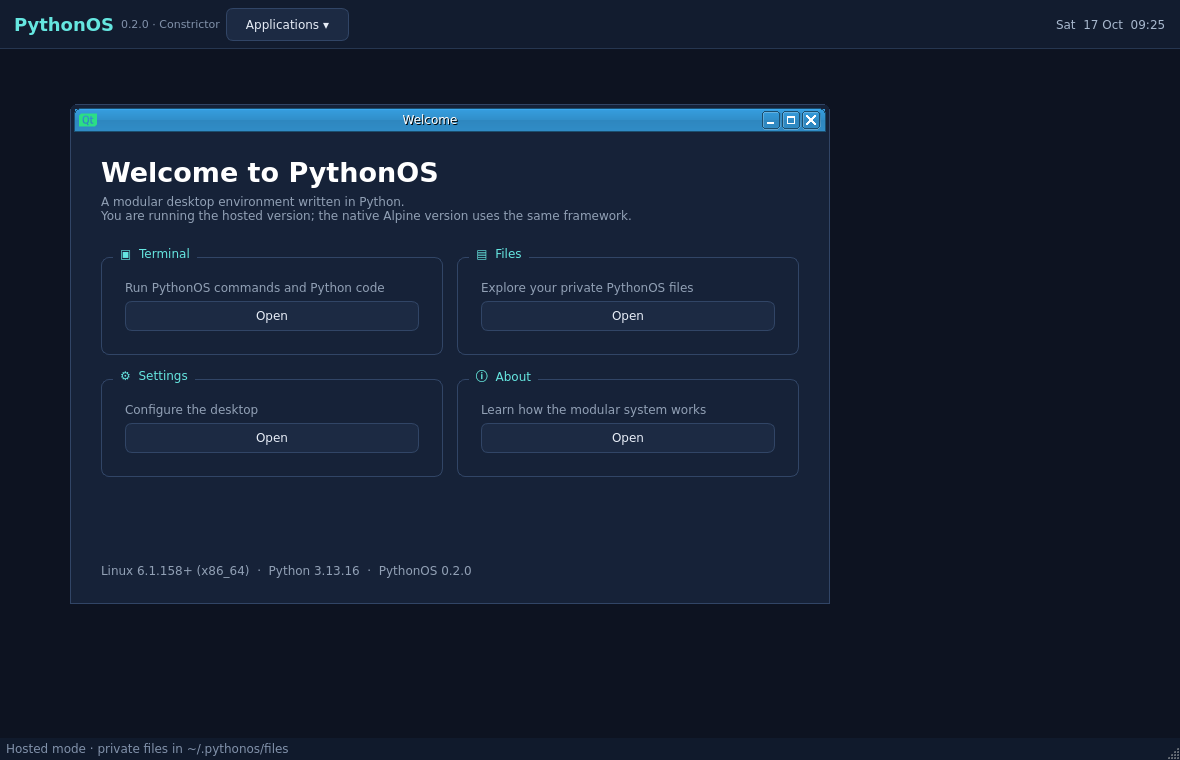
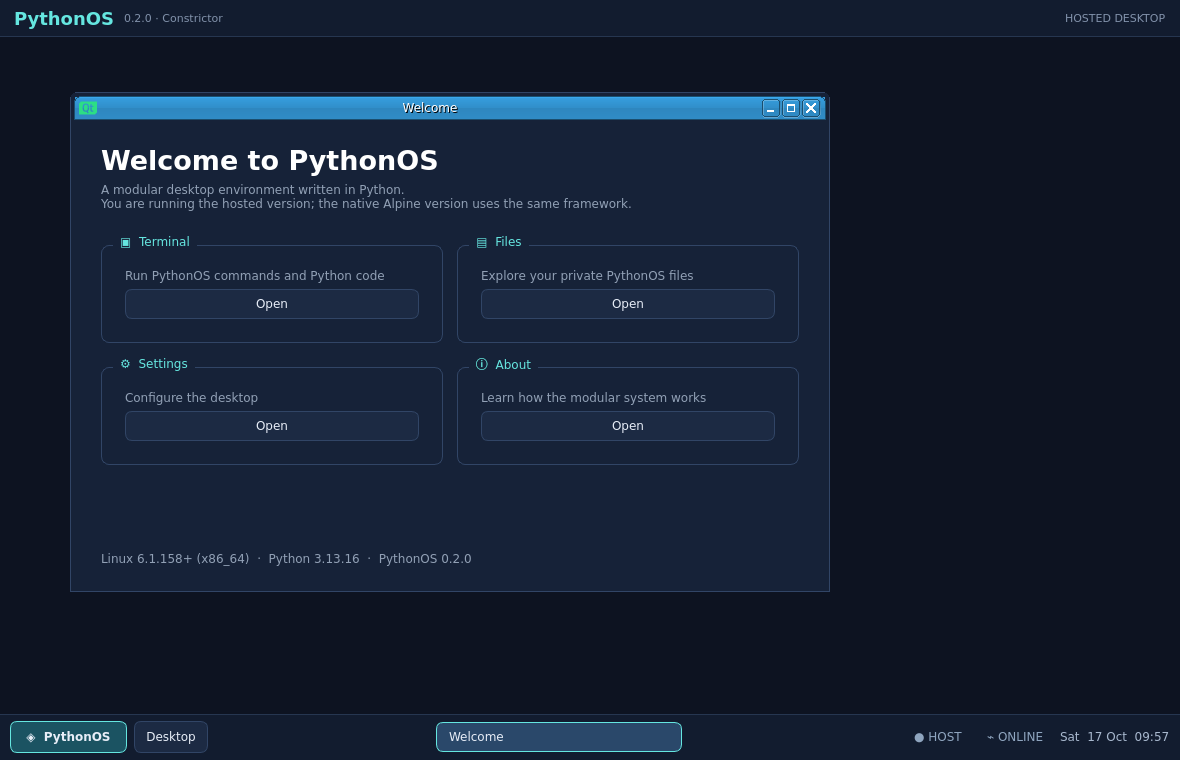
desktop: add a real taskbar and window switching

diff --git a/pythonos/desktop/main.py b/pythonos/desktop/main.py
@@ -6,7 +6,7 @@ import argparse
 import sys
 from pathlib import Path
 
-from PySide6.QtCore import QDateTime, QTimer, Qt
+from PySide6.QtCore import QDateTime, QPoint, QTimer, Qt
 from PySide6.QtGui import QAction, QColor, QFont, QPalette
 from PySide6.QtWidgets import (
     QApplication,
@@ -21,8 +21,9 @@ from PySide6.QtWidgets import (
     QMdiSubWindow,
     QMessageBox,
     QPushButton,
-    QStatusBar,
+    QMenu,
     QToolButton,
+    QHBoxLayout,
     QVBoxLayout,
     QWidget,
 )
@@ -35,6 +36,13 @@ from .terminal import TerminalWidget
 STYLE = """
 QMainWindow, QWidget#desktopRoot { background: #0d1321; color: #e7edf7; }
 QWidget#panel { background: #121c2f; border-bottom: 1px solid #263650; }
+QWidget#taskbar { background: #121c2f; border-top: 1px solid #263650; }
+QPushButton#startButton { background: #1b5362; border-color: #65e6e0; font-weight: 700; padding: 8px 15px; }
+QPushButton#startButton:hover { background: #257487; }
+QPushButton#desktopButton { padding: 8px 11px; }
+QPushButton#taskButton { padding: 7px 12px; min-width: 130px; max-width: 220px; text-align: left; }
+QPushButton#taskButton:checked { background: #2a486a; border-color: #65e6e0; }
+QLabel#tray { color: #8fa5bf; padding: 0 5px; }
 QLabel#brand { color: #65e6e0; font-size: 18px; font-weight: 700; }
 QLabel#version { color: #8191aa; font-size: 11px; }
 QPushButton, QToolButton { background: #1c2a43; border: 1px solid #314566; border-radius: 7px; color: #e7edf7; padding: 7px 13px; }
@@ -178,6 +186,13 @@ class AboutWidget(QWidget):
 
 
 class DesktopWindow(QMainWindow):
+    """The PythonOS desktop shell.
+
+    The taskbar is deliberately part of the Python UI rather than a host-OS
+    integration. It owns the launcher, window buttons, desktop toggle and
+    status tray, so the same shell can be reused by native mode later.
+    """
+
     def __init__(self, platform: HostPlatform | None = None):
         super().__init__()
         self.platform = platform or HostPlatform()
@@ -187,6 +202,8 @@ class DesktopWindow(QMainWindow):
         self.setObjectName("desktopRoot")
         self.setStyleSheet(STYLE)
         self.windows: dict[str, QMdiSubWindow] = {}
+        self.task_buttons: dict[str, QPushButton] = {}
+        self._desktop_hidden = False
         self._build_ui()
         self._clock = QTimer(self)
         self._clock.timeout.connect(self.update_clock)
@@ -199,54 +216,137 @@ class DesktopWindow(QMainWindow):
         layout = QVBoxLayout(root)
         layout.setContentsMargins(0, 0, 0, 0)
         layout.setSpacing(0)
+
+        # A slim top identity bar. The actual desktop taskbar is at the
+        # bottom, like a conventional desktop environment.
         panel = QWidget()
         panel.setObjectName("panel")
-        panel_layout = QGridLayout(panel)
+        panel_layout = QHBoxLayout(panel)
         panel_layout.setContentsMargins(14, 8, 14, 8)
+        panel_layout.setSpacing(9)
         brand = QLabel("PythonOS")
         brand.setObjectName("brand")
-        panel_layout.addWidget(brand, 0, 0)
+        panel_layout.addWidget(brand)
         version = QLabel(f"{__version__} · {__codename__}")
         version.setObjectName("version")
-        panel_layout.addWidget(version, 0, 1)
-        launcher = QToolButton()
-        launcher.setText("Applications ▾")
-        launcher.clicked.connect(self.show_launcher)
-        panel_layout.addWidget(launcher, 0, 2)
-        panel_layout.setColumnStretch(3, 1)
-        self.clock = QLabel()
-        self.clock.setObjectName("clock")
-        panel_layout.addWidget(self.clock, 0, 4)
+        panel_layout.addWidget(version)
+        panel_layout.addStretch()
+        mode = QLabel("HOSTED DESKTOP")
+        mode.setObjectName("version")
+        panel_layout.addWidget(mode)
         layout.addWidget(panel)
 
         self.mdi = QMdiArea()
         self.mdi.setViewMode(QMdiArea.ViewMode.SubWindowView)
         self.mdi.setBackground(QColor("#0d1321"))
-        layout.addWidget(self.mdi)
+        self.mdi.subWindowActivated.connect(self._active_window_changed)
+        layout.addWidget(self.mdi, 1)
+
+        # Bottom taskbar: launcher, desktop toggle, live app buttons, tray and clock.
+        taskbar = QWidget()
+        taskbar.setObjectName("taskbar")
+        taskbar_layout = QHBoxLayout(taskbar)
+        taskbar_layout.setContentsMargins(10, 7, 10, 7)
+        taskbar_layout.setSpacing(7)
+
+        self.start_button = QPushButton("◈  PythonOS")
+        self.start_button.setObjectName("startButton")
+        self.start_button.clicked.connect(self.show_launcher)
+        taskbar_layout.addWidget(self.start_button)
+
+        desktop_button = QPushButton("Desktop")
+        desktop_button.setObjectName("desktopButton")
+        desktop_button.setToolTip("Show or restore desktop windows")
+        desktop_button.clicked.connect(self.show_desktop)
+        taskbar_layout.addWidget(desktop_button)
+
+        self.window_button_host = QWidget()
+        self.window_buttons_layout = QHBoxLayout(self.window_button_host)
+        self.window_buttons_layout.setContentsMargins(4, 0, 0, 0)
+        self.window_buttons_layout.setSpacing(5)
+        taskbar_layout.addWidget(self.window_button_host, 1)
+
+        host_label = QLabel("● HOST")
+        host_label.setObjectName("tray")
+        online_label = QLabel("⌁ ONLINE")
+        online_label.setObjectName("tray")
+        taskbar_layout.addWidget(host_label)
+        taskbar_layout.addWidget(online_label)
+        self.clock = QLabel()
+        self.clock.setObjectName("clock")
+        taskbar_layout.addWidget(self.clock)
+        layout.addWidget(taskbar)
+
         self.setCentralWidget(root)
-        self.setStatusBar(QStatusBar())
-        self.statusBar().showMessage("Hosted mode · private files in ~/.pythonos/files")
         self.open_app("welcome")
 
     def update_clock(self):
         self.clock.setText(QDateTime.currentDateTime().toString("ddd  dd MMM  HH:mm"))
 
     def show_launcher(self):
-        menu = self.menuBar().addMenu("Applications")
-        menu.aboutToHide.connect(menu.deleteLater)
+        menu = QMenu(self)
+        menu.setStyleSheet(STYLE)
+        menu.addAction("Open Welcome", lambda: self.open_app("welcome"))
+        menu.addSeparator()
         for name, title in (("terminal", "Terminal"), ("files", "Files"),
                             ("settings", "Settings"), ("about", "About")):
-            action = QAction(title, menu)
-            action.triggered.connect(lambda checked=False, n=name: self.open_app(n))
-            menu.addAction(action)
-        menu.popup(self.mapToGlobal(self.rect().topLeft() + self.rect().topLeft()))
+            menu.addAction(title, lambda n=name: self.open_app(n))
+        menu.addSeparator()
+        menu.addAction("Toggle fullscreen", self.toggle_fullscreen)
+        menu.addAction("Exit PythonOS", self.close)
+        point = self.start_button.mapToGlobal(QPoint(0, -menu.sizeHint().height()))
+        menu.exec(point)
+
+    def show_desktop(self):
+        windows = list(self.windows.values())
+        if not windows:
+            self.open_app("welcome")
+            return
+        if self._desktop_hidden:
+            for window in windows:
+                window.showNormal()
+            self._desktop_hidden = False
+        else:
+            for window in windows:
+                window.showMinimized()
+            self._desktop_hidden = True
+
+    def _add_task_button(self, name: str, window: QMdiSubWindow):
+        button = QPushButton(window.windowTitle())
+        button.setObjectName("taskButton")
+        button.setCheckable(True)
+        button.setToolTip(f"Switch to {window.windowTitle()}")
+        button.clicked.connect(lambda checked=False, n=name: self.activate_app(n))
+        self.window_buttons_layout.addWidget(button)
+        self.task_buttons[name] = button
+
+    def _remove_task_button(self, name: str):
+        button = self.task_buttons.pop(name, None)
+        if button is not None:
+            self.window_buttons_layout.removeWidget(button)
+            button.deleteLater()
+
+    def _active_window_changed(self, window):
+        active = self.mdi.activeSubWindow()
+        for name, button in self.task_buttons.items():
+            button.setChecked(self.windows.get(name) is active)
+
+    def activate_app(self, name: str):
+        window = self.windows.get(name)
+        if window is None:
+            self.open_app(name)
+            return
+        if self.mdi.activeSubWindow() is window and not window.isMinimized():
+            window.showMinimized()
+            return
+        window.showNormal()
+        window.raise_()
+        self.mdi.setActiveSubWindow(window)
+        self._desktop_hidden = False
 
     def open_app(self, name: str):
         if name in self.windows:
-            window = self.windows[name]
-            window.show()
-            window.raise_()
-            self.mdi.setActiveSubWindow(window)
+            self.activate_app(name)
             return
         if name == "welcome":
             widget = WelcomeWidget(self.platform, self.open_app)
@@ -267,16 +367,23 @@ class DesktopWindow(QMainWindow):
             QMessageBox.warning(self, "Unknown application", name)
             return
         sub = self.mdi.addSubWindow(widget)
+        sub.setAttribute(Qt.WidgetAttribute.WA_DeleteOnClose, True)
         sub.setWindowTitle(title)
         sub.resize(600, 430)
-        sub.destroyed.connect(lambda _obj=None, n=name: self.windows.pop(n, None))
+        sub.destroyed.connect(lambda _obj=None, n=name: self._window_destroyed(n))
         self.windows[name] = sub
+        self._add_task_button(name, sub)
         sub.show()
         if name == "welcome":
             sub.resize(760, 500)
             sub.move(70, 55)
         else:
             sub.move(110 + len(self.windows) * 20, 70 + len(self.windows) * 15)
+        self.mdi.setActiveSubWindow(sub)
+
+    def _window_destroyed(self, name: str):
+        self.windows.pop(name, None)
+        self._remove_task_button(name)
 
     def toggle_fullscreen(self):
         if self.isFullScreen():

diff --git a/tests/test_desktop.py b/tests/test_desktop.py
@@ -12,17 +12,45 @@ import unittest
 
 
 class HostedDesktopTests(unittest.TestCase):
-    def test_entrypoint_creates_desktop(self):
+    def _gui_env(self):
+        env = dict(os.environ)
+        env["QT_QPA_PLATFORM"] = "offscreen"
+        env["PYTHONPATH"] = os.path.dirname(os.path.dirname(os.path.abspath(__file__)))
+        return env
+
+    def _require_qt(self):
         try:
             import PySide6  # noqa: F401
         except ImportError:
             self.skipTest("install requirements.txt for the hosted GUI")
-        env = dict(os.environ)
-        env["QT_QPA_PLATFORM"] = "offscreen"
-        env["PYTHONPATH"] = os.path.dirname(os.path.dirname(os.path.abspath(__file__)))
+
+    def test_entrypoint_creates_desktop(self):
+        self._require_qt()
         proc = subprocess.run(
             [sys.executable, "-m", "pythonos.desktop.main", "--smoke-test"],
-            capture_output=True, text=True, timeout=20, env=env,
+            capture_output=True, text=True, timeout=20, env=self._gui_env(),
+        )
+        self.assertEqual(proc.returncode, 0, proc.stderr or proc.stdout)
+
+    def test_taskbar_tracks_open_apps(self):
+        self._require_qt()
+        code = """
+from PySide6.QtWidgets import QApplication
+from pythonos.desktop.main import DesktopWindow
+app = QApplication([])
+window = DesktopWindow()
+for name in (\"terminal\", \"files\", \"settings\", \"about\"):
+    window.open_app(name)
+assert set(window.task_buttons) == {\"welcome\", \"terminal\", \"files\", \"settings\", \"about\"}
+window.show_desktop()
+assert all(item.isMinimized() for item in window.windows.values())
+window.show_desktop()
+assert all(not item.isMinimized() for item in window.windows.values())
+app.quit()
+"""
+        proc = subprocess.run(
+            [sys.executable, "-c", code],
+            capture_output=True, text=True, timeout=20, env=self._gui_env(),
         )
         self.assertEqual(proc.returncode, 0, proc.stderr or proc.stdout)
 

diff --git a/docs/MODULAR.md b/docs/MODULAR.md
@@ -33,8 +33,10 @@ pythonos-desktop
 
 `pythonos-desktop` opens a PythonOS desktop window. Hosted mode uses PySide6
 for portable native window creation and drawing. Qt is the native C++ layer;
-the desktop logic, widgets, apps, launcher, terminal and application APIs
-are Python. Qt selects X11/Wayland, Win32 or macOS graphics underneath, so
+the desktop logic, widgets, apps, launcher, terminal, taskbar and application
+APIs are Python. The taskbar owns open-window buttons, minimize/restore,
+status indicators and the clock rather than delegating the desktop experience
+to the host OS. Qt selects X11/Wayland, Win32 or macOS graphics underneath, so
 PythonOS does not require X11 on every host.
 
 Hosted mode keeps its data in `~/.pythonos/` by default:

diff --git a/CHANGELOG.md b/CHANGELOG.md
@@ -13,8 +13,9 @@ image that uses OpenRC.
 - `requirements.txt` and `pyproject.toml` for a standard editable Python
   install (Python 3.9+).
 - `pythonos-desktop`, a PySide6-Essentials hosted desktop entry point.
-- PythonOS panel, application launcher, welcome screen, terminal, files,
-  settings and about applications.
+- PythonOS panel, taskbar, application launcher, welcome screen, terminal,
+  files, settings and about applications. The taskbar tracks open windows,
+  supports minimize/restore and includes host/status indicators and a clock.
 - Private hosted data directory at `~/.pythonos/`.
 - OpenRC in the Alpine rootfs and an explicit OpenRC runlevel configuration.
 - Native `pythonos` OpenRC service and Alpine/BusyBox gettys on tty1 and

diff --git a/README.md b/README.md
@@ -54,7 +54,11 @@ session:
 
 The first hosted desktop opens as a normal application window with:
 
-- a PythonOS desktop and panel
+- a PythonOS desktop and top identity panel
+- a bottom taskbar with PythonOS launcher
+- live buttons for every open application window
+- minimize/restore desktop control
+- clock and host/status indicators
 - application launcher
 - PythonOS terminal
 - private virtual filesystem and file browser
